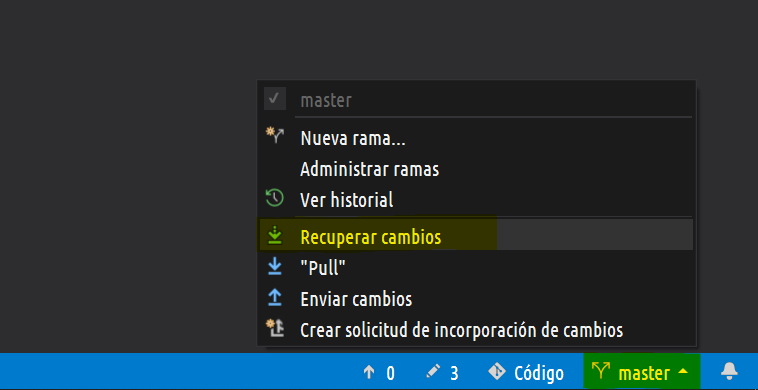
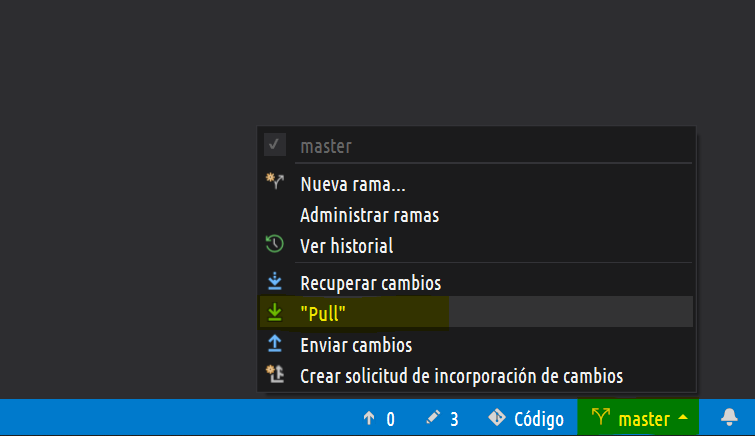
21ENE21

diff --git a/SimpleOps/Guías/Habilitación Facturación Electrónica DIAN.html b/SimpleOps/Guías/Habilitación Facturación Electrónica DIAN.html
@@ -168,12 +168,13 @@
     </p>
 
     <p>
-        Crea una carpeta en tu computador con el nombre <i>SimpleOps</i> (por ejemplo, D:\Programas\SimpleOps) y crea dentro de ella las 
+        Crea una carpeta en tu computador con el nombre <i>SimpleOps</i> (por ejemplo, D:\Programas\SimpleOps) y crea dentro de ella las
         siguientes 6 nuevas carpetas:
         <i>Código</i>, <i>Datos</i>, <i>Firma Electrónica</i>, <i>Opciones</i>, <i>Plantillas Documentos</i> y
-        <i>Programa Tercero</i>. Asegúrate de crearlas exactamente cómo están escritas (incluyendo tildes) para que no tengas
+        <i>Programa Tercero</i>. Crea una carpeta con nombre <i>Integración SimpleOps</i> dentro de <i>Programa Tercero</i>. 
+        Asegúrate de crearlas exactamente cómo están escritas (incluyendo tildes) para que no tengas
         contratiempos más adelante. Abre Visual Studio y haz clic en <i>Tareas Iniciales > Clonar un repositorio</i>. En <i>Ubicación del repositorio</i>
-        escribe https://github.com/vixark/SimpleOps.git y en <i>Ruta de acceso</i> selecciona tu carpeta <i>\SimpleOps\Código</i> y haz clic en 
+        escribe https://github.com/vixark/SimpleOps.git y en <i>Ruta de acceso</i> selecciona tu carpeta <i>\SimpleOps\Código</i> y haz clic en
         <i>Clonar</i>.
     </p>
     <img src="Imagenes/Habilitación Facturación Electrónica DIAN/ClonarRepositorio.png" />
@@ -185,11 +186,20 @@
     <img src="Imagenes/Habilitación Facturación Electrónica DIAN/AbrirSimpleOpsSln.png" />
 
     <p>
-        La próxima vez que vayas a abrir el código de <b>SimpleOps</b> abre
+        Con esto abrirás el código por primera vez. La próxima vez que vayas a abrir el código abre
         el archivo <i>\SimpleOps\Código\SimpleOps.sln</i> y actualiza el código a la última versión en GitHub haciendo clic en la esquina inferior derecha
-        en <i>master > Recuperar cambios</i>.
+        en <i>master > "Pull"</i>.
     </p>
     <img src="Imagenes/Habilitación Facturación Electrónica DIAN/ActualizarCambiosSimpleOpsSln.png" />
+
+
+    <p>
+        Busca (Ctrl + F) el texto <i>Public string RutaAplicación</i> para que encuentres el siguiente fragmento de código y reemplaza en los 4
+        textos indicados <i>D:\Programas</i> por la ruta de la carpeta donde está tu carpeta <i>\SimpleOps</i>.
+        Esto deberás hacerlo cada vez que actualices el código, aunque si usas la ruta <i>D:\Programas\</i> no tendrás que hacerlo.
+    </p>
+    <img src="Imagenes/Habilitación Facturación Electrónica DIAN/CambioRutasCódigo.png" />
+
 
 </body>
 

diff --git a/SimpleOps/Estáticas/Global.cs b/SimpleOps/Estáticas/Global.cs
@@ -665,7 +665,10 @@ namespace SimpleOps {
         /// Inicia algunas variables que no se pueden iniciar en el cuerpo de la clase Global porque requieren unos pasos adicionales para establecer su valor.
         /// </summary>
         public static void IniciarVariablesGlobales() {
+
             OpcionesConversiónPdf.SetFontProvider(new iText.Html2pdf.Resolver.Font.DefaultFontProvider(true, true, true)); // Necesario para poder usar la fuente Calibri, se podría tardar algunos segundos. Si llega a ser un problema de rendimiento revisar las opciones en SimpleOps.xlsx > Tareas > Rendimiento Generación de PDF.
+            ObtenerRutaCarpeta(Equipo.RutaAplicación, CarpetaDatos, crearSiNoExiste: true); // Se ejecuta para crear la carpeta si no existe.
+
         } // IniciarVariablesGlobales>
 
 
